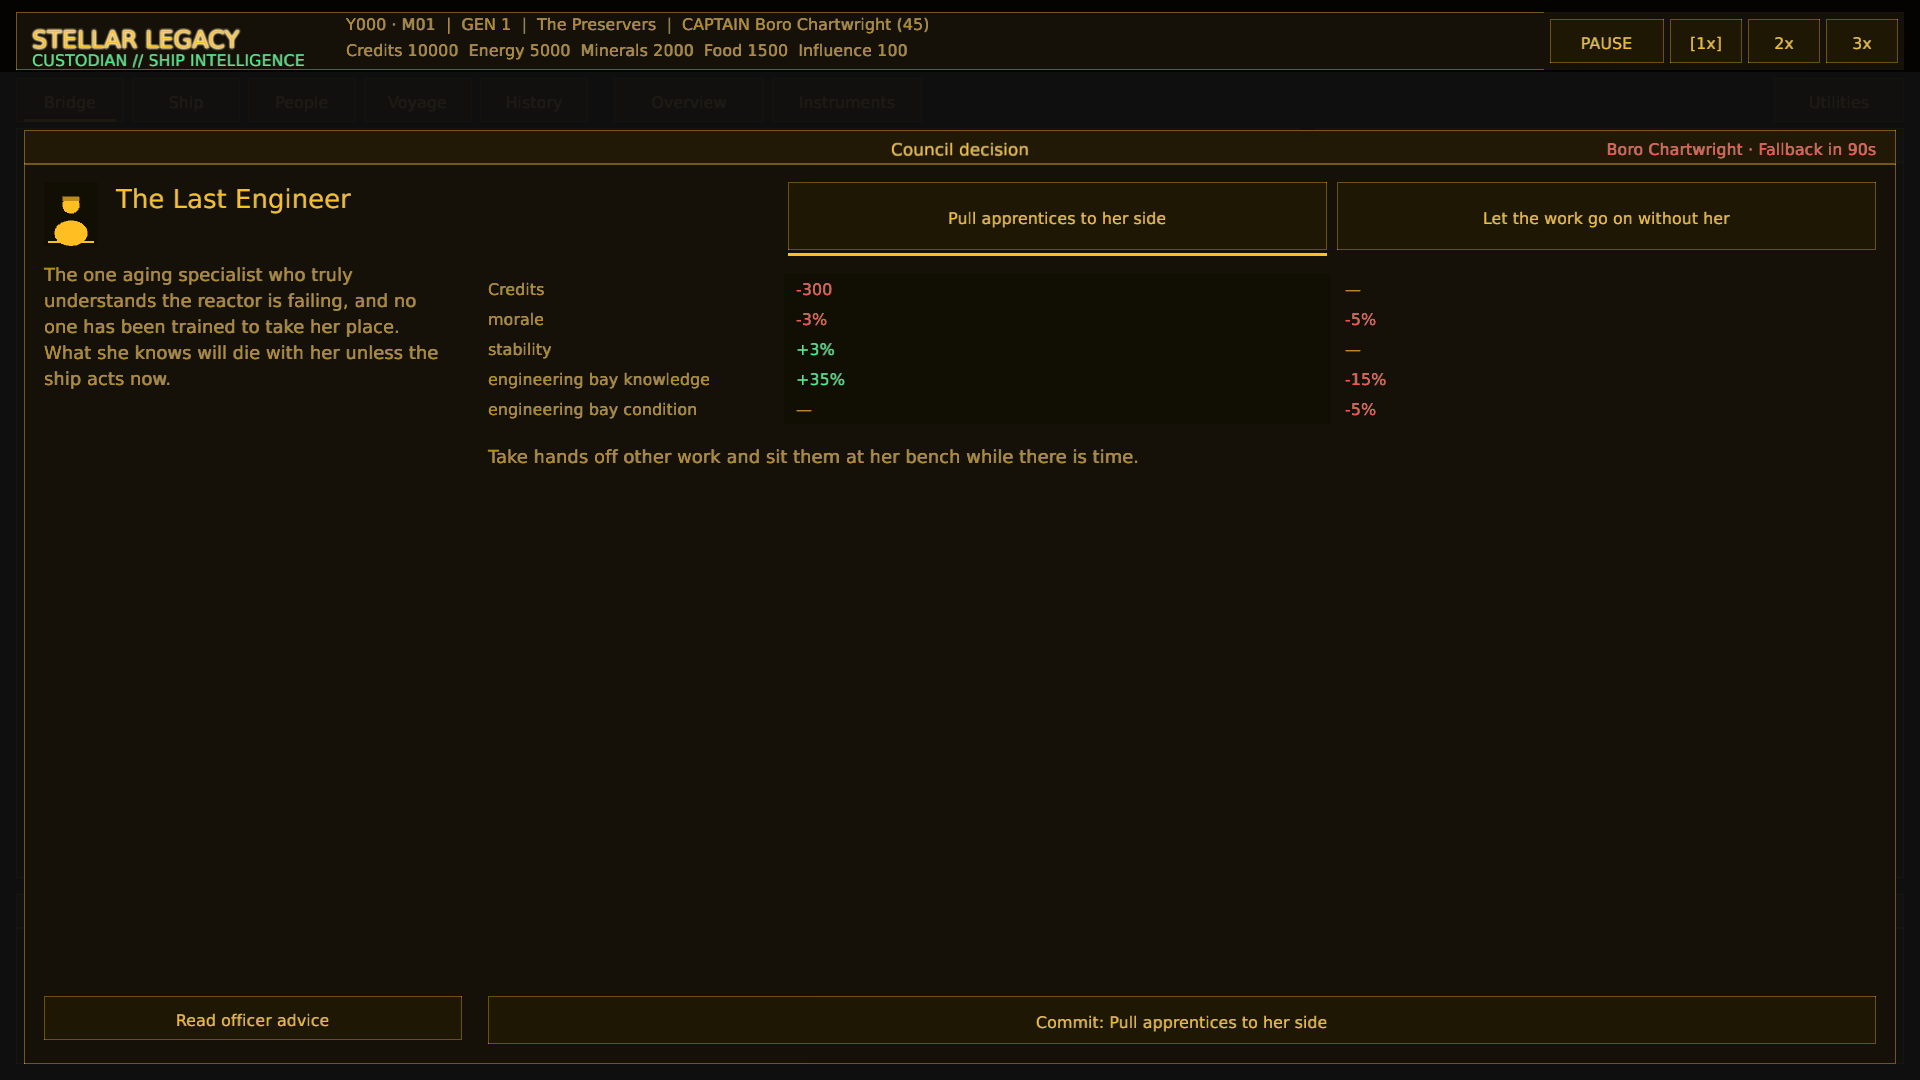
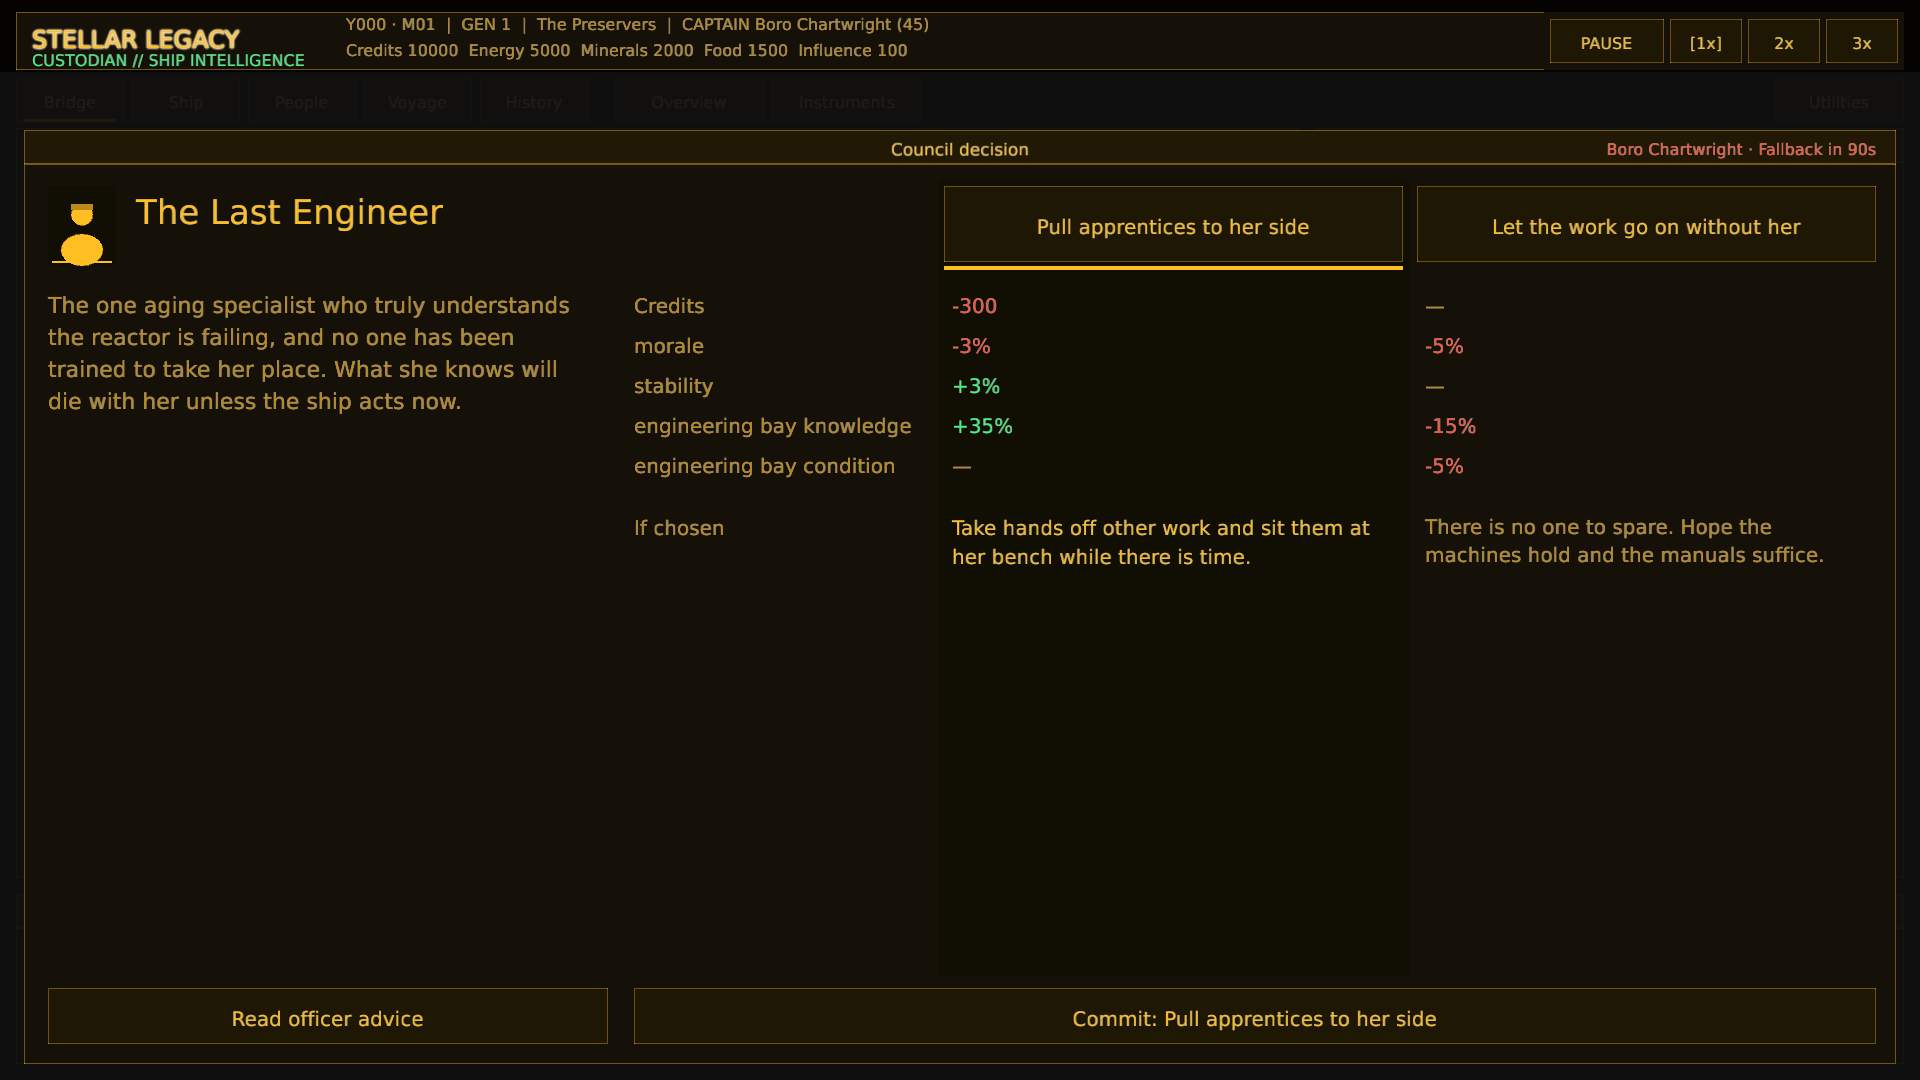
The council sets every choice side by side, in full (Council decision layout)
The council screen read its options in a narrow strip: 16px grid text,
only the selected option's consequence shown, and the lower half of the
panel empty.

The situation column is wider with a 34px title and 22px prose. Each
option is now a lit card running down its own column: a 20px label, its
effects in 40px rows, and its "if chosen" consequence beneath, so both
outcomes read at once. Only the selected card's text still gates the
commit on reading to the end. The officer advice and commit buttons
share one height and size. read_lines gains a sized variant for prose
that is the point of a screen.

Formatting and strict all-target Clippy pass. The event scene was
recaptured at 1920x1080 and read back.

diff --git a/src/ui/event_modal/council.rs b/src/ui/event_modal/council.rs
@@ -1,6 +1,7 @@
 //! A council decision separates the situation from the selected commitment.
 use super::*;
-use crate::ui::reading::read_lines;
+use crate::ui::reading::{flow_text, read_lines_sized};
+use crate::ui::term_button_sized;
 use macroquad_toolkit::ui::ScrollArea;
 
 pub fn draw(ctx: &GameplayCtx<'_>, pointer: Pointer, actions: &mut Vec<UiAction>) {
@@ -69,22 +70,22 @@ fn draw_council_panel(
         frame.y + 25.0,
         TextStyle::new(16.0, term::alert()),
     );
-    let left = Rect::new(frame.x + 20.0, frame.y + 52.0, 418.0, frame.h - 72.0);
+    let left = Rect::new(frame.x + 24.0, frame.y + 56.0, 560.0, frame.h - 76.0);
     let right = Rect::new(
         left.right() + 26.0,
         left.y,
         frame.right() - left.right() - 46.0,
         left.h,
     );
-    crate::ui::identity::portrait(Rect::new(left.x, left.y, 54.0, 64.0), captain);
+    crate::ui::identity::portrait(Rect::new(left.x, left.y, 68.0, 80.0), captain);
     draw_text_block(
         &event.title,
-        left.x + 72.0,
-        left.y,
-        left.w - 72.0,
-        66.0,
-        26.0,
-        5.0,
+        left.x + 88.0,
+        left.y + 4.0,
+        left.w - 88.0,
+        80.0,
+        34.0,
+        6.0,
         term::primary(),
     );
     draw_council_situation(ctx, event, left, pointer);
@@ -112,16 +113,17 @@ fn draw_council_situation(
             ));
         }
     }
-    let situation = Rect::new(left.x, left.y + 80.0, left.w, left.h - 148.0);
-    read_lines(
+    let situation = Rect::new(left.x, left.y + 104.0, left.w, left.h - 180.0);
+    read_lines_sized(
         &text,
         situation,
         &state.situation_scroll,
         pointer,
         term::dim(),
+        22.0,
     );
-    if term_button(
-        Rect::new(left.x, left.bottom() - 48.0, left.w, 44.0),
+    if term_button_sized(
+        Rect::new(left.x, left.bottom() - COMMIT_H, left.w, COMMIT_H),
         if advice_open {
             "Hide officer advice"
         } else {
@@ -129,6 +131,7 @@ fn draw_council_situation(
         },
         true,
         pointer,
+        20.0,
     ) {
         state.event_advice.set(!advice_open);
         state.situation_scroll.set(ScrollArea::new());
@@ -140,8 +143,11 @@ type OptionEffects = (Vec<super::effects::EffectTerm>, Option<(i64, i64)>);
 
 /// Width of the comparison grid's row-label column; the option buttons and
 /// their effect columns share the rest of the panel.
-const GRID_LABEL_W: f32 = 300.0;
-const GRID_ROW_H: f32 = 30.0;
+const GRID_LABEL_W: f32 = 310.0;
+const GRID_ROW_H: f32 = 40.0;
+const GRID_TEXT: f32 = 20.0;
+const OPTION_H: f32 = 76.0;
+const COMMIT_H: f32 = 56.0;
 
 fn draw_council_choices(
     ctx: &GameplayCtx<'_>,
@@ -153,44 +159,82 @@ fn draw_council_choices(
     actions: &mut Vec<UiAction>,
 ) {
     let state = ctx.presentation;
-    let gap = 10.0;
+    let gap = 14.0;
     let cols_x = right.x + GRID_LABEL_W;
     let col_w =
         (right.right() - cols_x - gap * (available.len() - 1) as f32) / available.len() as f32;
     let column = |index: usize| cols_x + index as f32 * (col_w + gap);
+    let card_bottom = right.bottom() - COMMIT_H - 18.0;
+    // The chosen option is lit as a whole card, top to bottom, so the
+    // comparison reads down a column rather than across a gap.
+    draw_rectangle(
+        column(selected) - 6.0,
+        right.y - 6.0,
+        col_w + 12.0,
+        card_bottom - right.y + 12.0,
+        term::surface_inset(),
+    );
     for (index, &outcome_index) in available.iter().enumerate() {
         let option = &event.outcomes[outcome_index];
-        let rect = Rect::new(column(index), right.y, col_w, 68.0);
-        if term_button(rect, &option.label, true, pointer) {
+        let rect = Rect::new(column(index), right.y, col_w, OPTION_H);
+        if term_button_sized(rect, &option.label, true, pointer, 20.0) {
             state.event_choice.set(index);
             state.event_scroll.set(ScrollArea::new());
         }
         if selected == index {
-            draw_rectangle(rect.x, rect.bottom() + 3.0, rect.w, 3.0, term::primary());
+            draw_rectangle(rect.x, rect.bottom() + 4.0, rect.w, 4.0, term::primary());
         }
     }
-    let grid_top = right.y + 92.0;
-    let grid_bottom = draw_effect_grid(ctx, event, available, selected, grid_top, &column, col_w);
+    let grid_top = right.y + OPTION_H + 24.0;
+    let grid_bottom = draw_effect_grid(ctx, event, available, grid_top, &column);
+
+    // Each option's consequence sits under its own column, so every choice
+    // is legible at once; only the selected one gates the commit on reading.
+    let detail_top = grid_bottom + 28.0;
+    let mut read_to_end = false;
+    for (index, &outcome_index) in available.iter().enumerate() {
+        let outcome = &event.outcomes[outcome_index];
+        let affordable = crate::simulation::event_resolver::outcome_affordable(ctx.sim, outcome);
+        let briefing = if affordable {
+            outcome.description.clone()
+        } else {
+            format!(
+                "{}
+
+Unavailable: insufficient stores for this choice.",
+                outcome.description
+            )
+        };
+        let x = column(index) + 8.0;
+        if index == selected {
+            let view = Rect::new(
+                x,
+                detail_top,
+                col_w - 8.0,
+                (card_bottom - detail_top).max(60.0),
+            );
+            read_to_end = read_lines_sized(
+                &briefing,
+                view,
+                &state.event_scroll,
+                pointer,
+                term::primary(),
+                20.0,
+            );
+        } else {
+            flow_text(&briefing, x, detail_top, col_w - 24.0, 20.0, term::dim());
+        }
+    }
+    draw_ui_text_ex(
+        "If chosen",
+        right.x,
+        detail_top + 21.0,
+        TextStyle::new(GRID_TEXT, term::dim()).params(),
+    );
 
     let index = available[selected];
     let outcome = &event.outcomes[index];
     let affordable = crate::simulation::event_resolver::outcome_affordable(ctx.sim, outcome);
-    let briefing = if affordable {
-        outcome.description.clone()
-    } else {
-        format!(
-            "{}\n\nUnavailable: insufficient stores for this choice.",
-            outcome.description
-        )
-    };
-    let detail_top = grid_bottom + 20.0;
-    let detail = Rect::new(
-        right.x,
-        detail_top,
-        right.w,
-        (right.bottom() - 66.0 - detail_top).max(60.0),
-    );
-    let read_to_end = read_lines(&briefing, detail, &state.event_scroll, pointer, term::dim());
     let label = if !affordable {
         "Commit choice · insufficient stores".to_owned()
     } else if !read_to_end {
@@ -198,11 +242,12 @@ fn draw_council_choices(
     } else {
         format!("Commit: {}", outcome.label)
     };
-    if term_button(
-        Rect::new(right.x, right.bottom() - 48.0, right.w, 48.0),
+    if term_button_sized(
+        Rect::new(right.x, right.bottom() - COMMIT_H, right.w, COMMIT_H),
         &label,
         affordable && read_to_end,
         pointer,
+        20.0,
     ) {
         actions.push(UiAction::ResolveEvent(index));
     }
@@ -215,10 +260,8 @@ fn draw_effect_grid(
     ctx: &GameplayCtx<'_>,
     event: &crate::data::events::EventTemplate,
     available: &[usize],
-    selected: usize,
     top: f32,
     column: &dyn Fn(usize) -> f32,
-    col_w: f32,
 ) -> f32 {
     let per_option: Vec<OptionEffects> = available
         .iter()
@@ -246,30 +289,23 @@ fn draw_effect_grid(
     let has_souls = per_option.iter().any(|(_, souls)| souls.is_some());
     let row_count = rows.len() + usize::from(has_souls);
     let height = GRID_ROW_H * row_count.max(1) as f32;
-    draw_rectangle(
-        column(selected) - 4.0,
-        top,
-        col_w + 8.0,
-        height,
-        term::surface_inset(),
-    );
     if row_count == 0 {
         draw_ui_text_ex(
             "No option makes an immediate material change.",
             column(0) - GRID_LABEL_W,
-            top + 21.0,
-            TextStyle::new(16.0, term::dim()).params(),
+            top + 27.0,
+            TextStyle::new(GRID_TEXT, term::dim()).params(),
         );
         return top + height;
     }
     let label_x = column(0) - GRID_LABEL_W;
     for (row, label) in rows.iter().enumerate() {
-        let y = top + row as f32 * GRID_ROW_H + 21.0;
+        let y = top + row as f32 * GRID_ROW_H + 27.0;
         draw_ui_text_ex(
             label,
             label_x,
             y,
-            TextStyle::new(16.0, term::dim()).params(),
+            TextStyle::new(GRID_TEXT, term::dim()).params(),
         );
         for (index, (terms, _)) in per_option.iter().enumerate() {
             let (text, color) = match terms.iter().find(|term| &term.label == label) {
@@ -281,17 +317,17 @@ fn draw_effect_grid(
                 &text,
                 column(index) + 8.0,
                 y,
-                TextStyle::new(16.0, color).params(),
+                TextStyle::new(GRID_TEXT, color).params(),
             );
         }
     }
     if has_souls {
-        let y = top + rows.len() as f32 * GRID_ROW_H + 21.0;
+        let y = top + rows.len() as f32 * GRID_ROW_H + 27.0;
         draw_ui_text_ex(
             "souls (uncertain)",
             label_x,
             y,
-            TextStyle::new(16.0, term::dim()).params(),
+            TextStyle::new(GRID_TEXT, term::dim()).params(),
         );
         for (index, (_, souls)) in per_option.iter().enumerate() {
             let (text, color) = match souls {
@@ -302,7 +338,7 @@ fn draw_effect_grid(
                 &text,
                 column(index) + 8.0,
                 y,
-                TextStyle::new(16.0, color).params(),
+                TextStyle::new(GRID_TEXT, color).params(),
             );
         }
     }

diff --git a/src/ui/reading.rs b/src/ui/reading.rs
@@ -10,14 +10,33 @@ pub fn read_lines(
     pointer: Pointer,
     color: Color,
 ) -> bool {
-    let lines = wrap_text(text, view.w - 20.0, 18.0);
-    let height = lines.len() as f32 * 26.0;
+    read_lines_sized(text, view, cell, pointer, color, 18.0)
+}
+
+/// [`read_lines`] at a chosen type size, for surfaces whose prose is the
+/// point of the screen and earns a larger reading measure.
+pub fn read_lines_sized(
+    text: &str,
+    view: Rect,
+    cell: &std::cell::Cell<ScrollArea>,
+    pointer: Pointer,
+    color: Color,
+    size: f32,
+) -> bool {
+    let stride = (size * 1.45).ceil();
+    let lines = wrap_text(text, view.w - 20.0, size);
+    let height = lines.len() as f32 * stride;
     let mut scroll = cell.get();
     scroll.update_at(view, height, pointer.position);
     for (index, line) in lines.iter().enumerate() {
-        let y = view.y + index as f32 * 26.0 - scroll.offset();
-        if y >= view.y && y + 26.0 <= view.bottom() {
-            draw_ui_text_ex(line, view.x, y + 19.0, TextStyle::new(18.0, color).params());
+        let y = view.y + index as f32 * stride - scroll.offset();
+        if y >= view.y && y + stride <= view.bottom() {
+            draw_ui_text_ex(
+                line,
+                view.x,
+                y + (size * 1.05).round(),
+                TextStyle::new(size, color).params(),
+            );
         }
     }
     scroll.draw_scrollbar_with(
